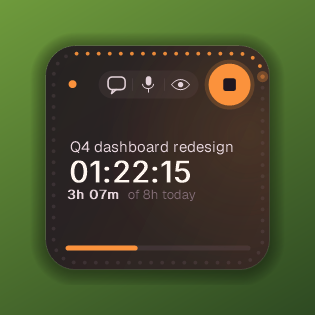
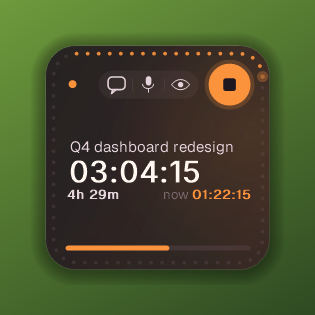
v9.5: big timer = the task's whole day; session shown on its own
Going back to a task restarted the widget at 0:00 while Everhour kept
counting the task's day. Checked against the live API: timer.today and
the saved entries both leave the running session out (today=0 and no
entries while a 23-min session ran), so the day is now earlier + session
instead of max(earlier, session). Today list, totals, week and break
allowance all follow; the edge-light lap follows the big number.

"session 0:12:03" appears only when the two differ: right end of the day
row on Large/Square (shortening the day suffix, then the label, when
tight), right end of the bar row on Wide (the bar shortens).

Changed region(s): [[0.2857, 0.4857, 0.8, 0.6571], [0.4286, 0.7714, 0.5429, 0.8], [0.2, 0.6, 0.2571, 0.6286]]

diff --git a/README.md b/README.md
@@ -13,7 +13,7 @@ No admin rights. One PowerShell script, a few launchers and some open-source fon
 
 | | |
 | --- | --- |
-| <img src="docs/wide-running.png" width="300"> | **Working** — your theme. The dots round the edge fill up once a minute, Nothing-phone style. |
+| <img src="docs/wide-running.png" width="300"> | **Working** — your theme. The big timer is the task's whole day, the same as Everhour; come back to a task and it carries on from there, with **session** showing this run on its own. The dots round the edge fill up once a minute, Nothing-phone style. |
 | <img src="docs/wide-break.png" width="300"> | **On a break** — calm teal gradient with a steaming cup. The bar shows how much of today's break allowance is used. |
 | <img src="docs/wide-overbreak.png" width="300"> | **Break over the limit** — fast red-orange gradient, chasing lights and warning stripes. |
 | <img src="docs/wide-stopped.png" width="300"> | **No timer running** — the whole widget turns red, a red dot circles the edge, and the timer counts how long you've been off. |
